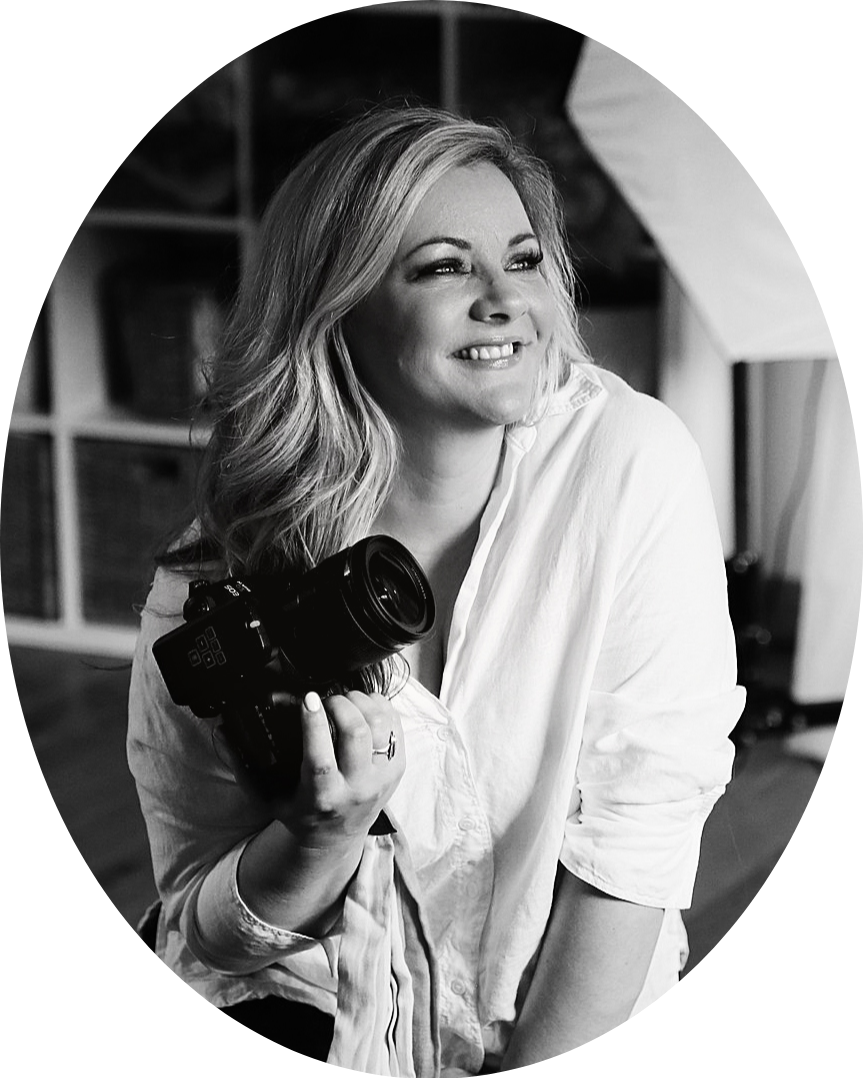
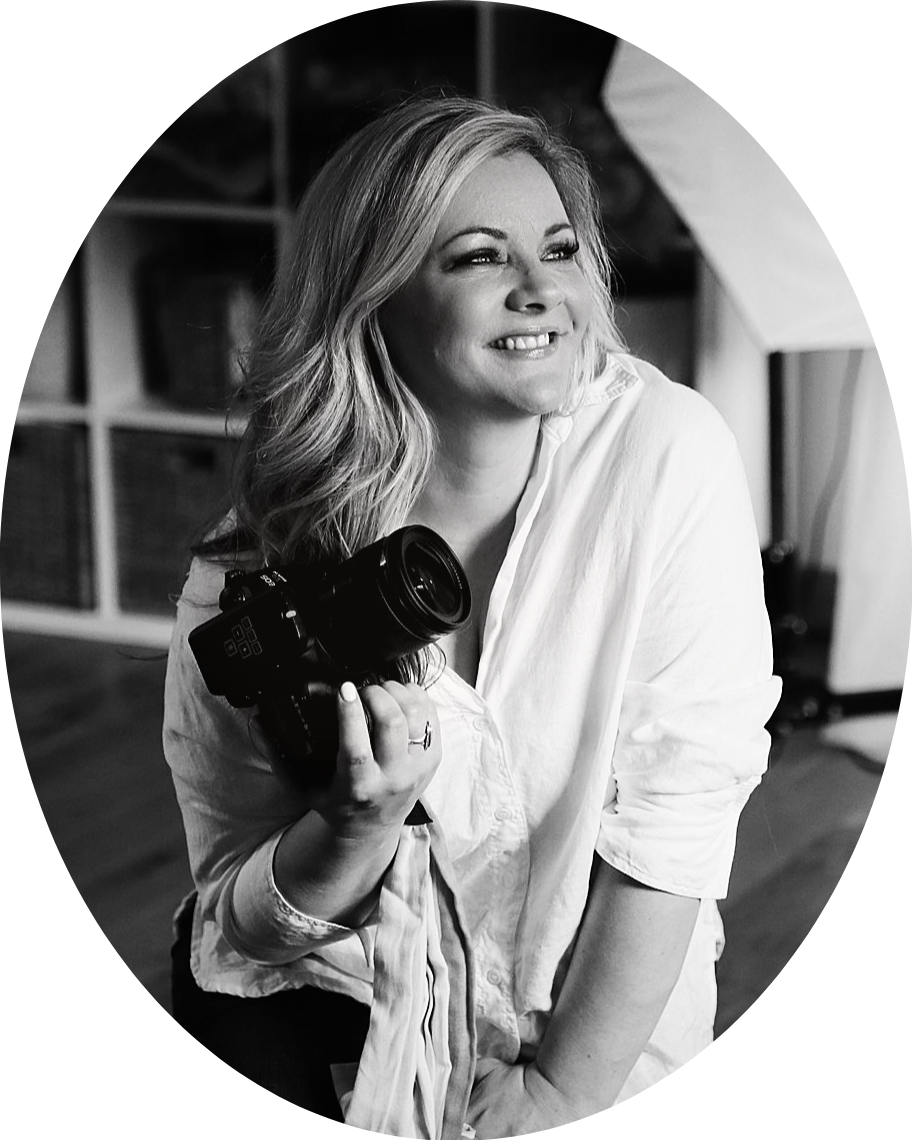
working on profile stuff

diff --git a/my-project/src/styles/globals.css b/my-project/src/styles/globals.css
@@ -2,25 +2,14 @@
 @tailwind components;
 @tailwind utilities;
 
-@media (prefers-color-scheme: dark) {
-  :root {
-    --foreground-rgb: 255, 255, 255;
-    --background-start-rgb: 0, 0, 0;
-    --background-end-rgb: 0, 0, 0;
-  }
-}
-
 ::-webkit-scrollbar {
   display: none;
 }
 
-body {
-  background-color: rgb(255, 231, 231);
-}
-
 .navbar {
-  height: 205px;
-  background-color: #ffffff;
+  height: 250px;
+  background-image: url(https://www.jemmaslaterphotography.com/wp-content/uploads/2021/02/1510882651-1502315574-Watercolor%20copy-1.jpg);
+  background-repeat: no-repeat;
   display: flex;
   align-items: center;
   font-size: 20px;
@@ -51,4 +40,25 @@ body {
 .center {
   margin-left: auto;
   margin-right: auto;
+}
+
+.about {
+  border: 1px solid;
+  margin: auto;
+  width: 50%;
+  height: 522px;
+  padding: 10px;
+}
+
+.jemma {
+  height: 100%;
+  width: 100%;
+  position: absolute;
+  top: 0px;
+  left: 0px;
+  background-image: url(https://www.jemmaslaterphotography.com/wp-content/uploads/2022/05/2022-05-26_0014-copy.jpg);
+  background-repeat: no-repeat;
+  background-size: cover;
+  background-position: 50% 50%;
+  border-radius: inherit;
 }

diff --git a/my-project/src/components/navbar.tsx b/my-project/src/components/navbar.tsx
@@ -19,8 +19,8 @@ export default function Navbar() {
               src="https://www.jemmaslaterphotography.com/wp-content/uploads/2021/02/Watermark-1%28pp_w1600_h470%29.png"
               alt="logo"
               className="logo center"
-              width={435}
-              height={435}
+              width={571}
+              height={571}
             />
           </Link>
           <div className="button-container">

diff --git a/my-project/src/pages/index.tsx b/my-project/src/pages/index.tsx
@@ -9,7 +9,9 @@ export default function Home() {
       <div>
         <Carousel />
       </div>
-      <Image src={"/Jemma.png"} alt="jemma" width={400} height={400} />
+      <div className="about">
+        <div className="jemma"></div>
+      </div>
     </div>
   );
 }

diff --git a/my-project/src/components/carousel.js b/my-project/src/components/carousel.js
@@ -17,6 +17,8 @@ export default function Carousel() {
         preloadPages: true,
         arrows: false,
         autoplay: true,
+        flickPower: 25,
+        gap: 0,
       }}
     >
       <SplideSlide>
